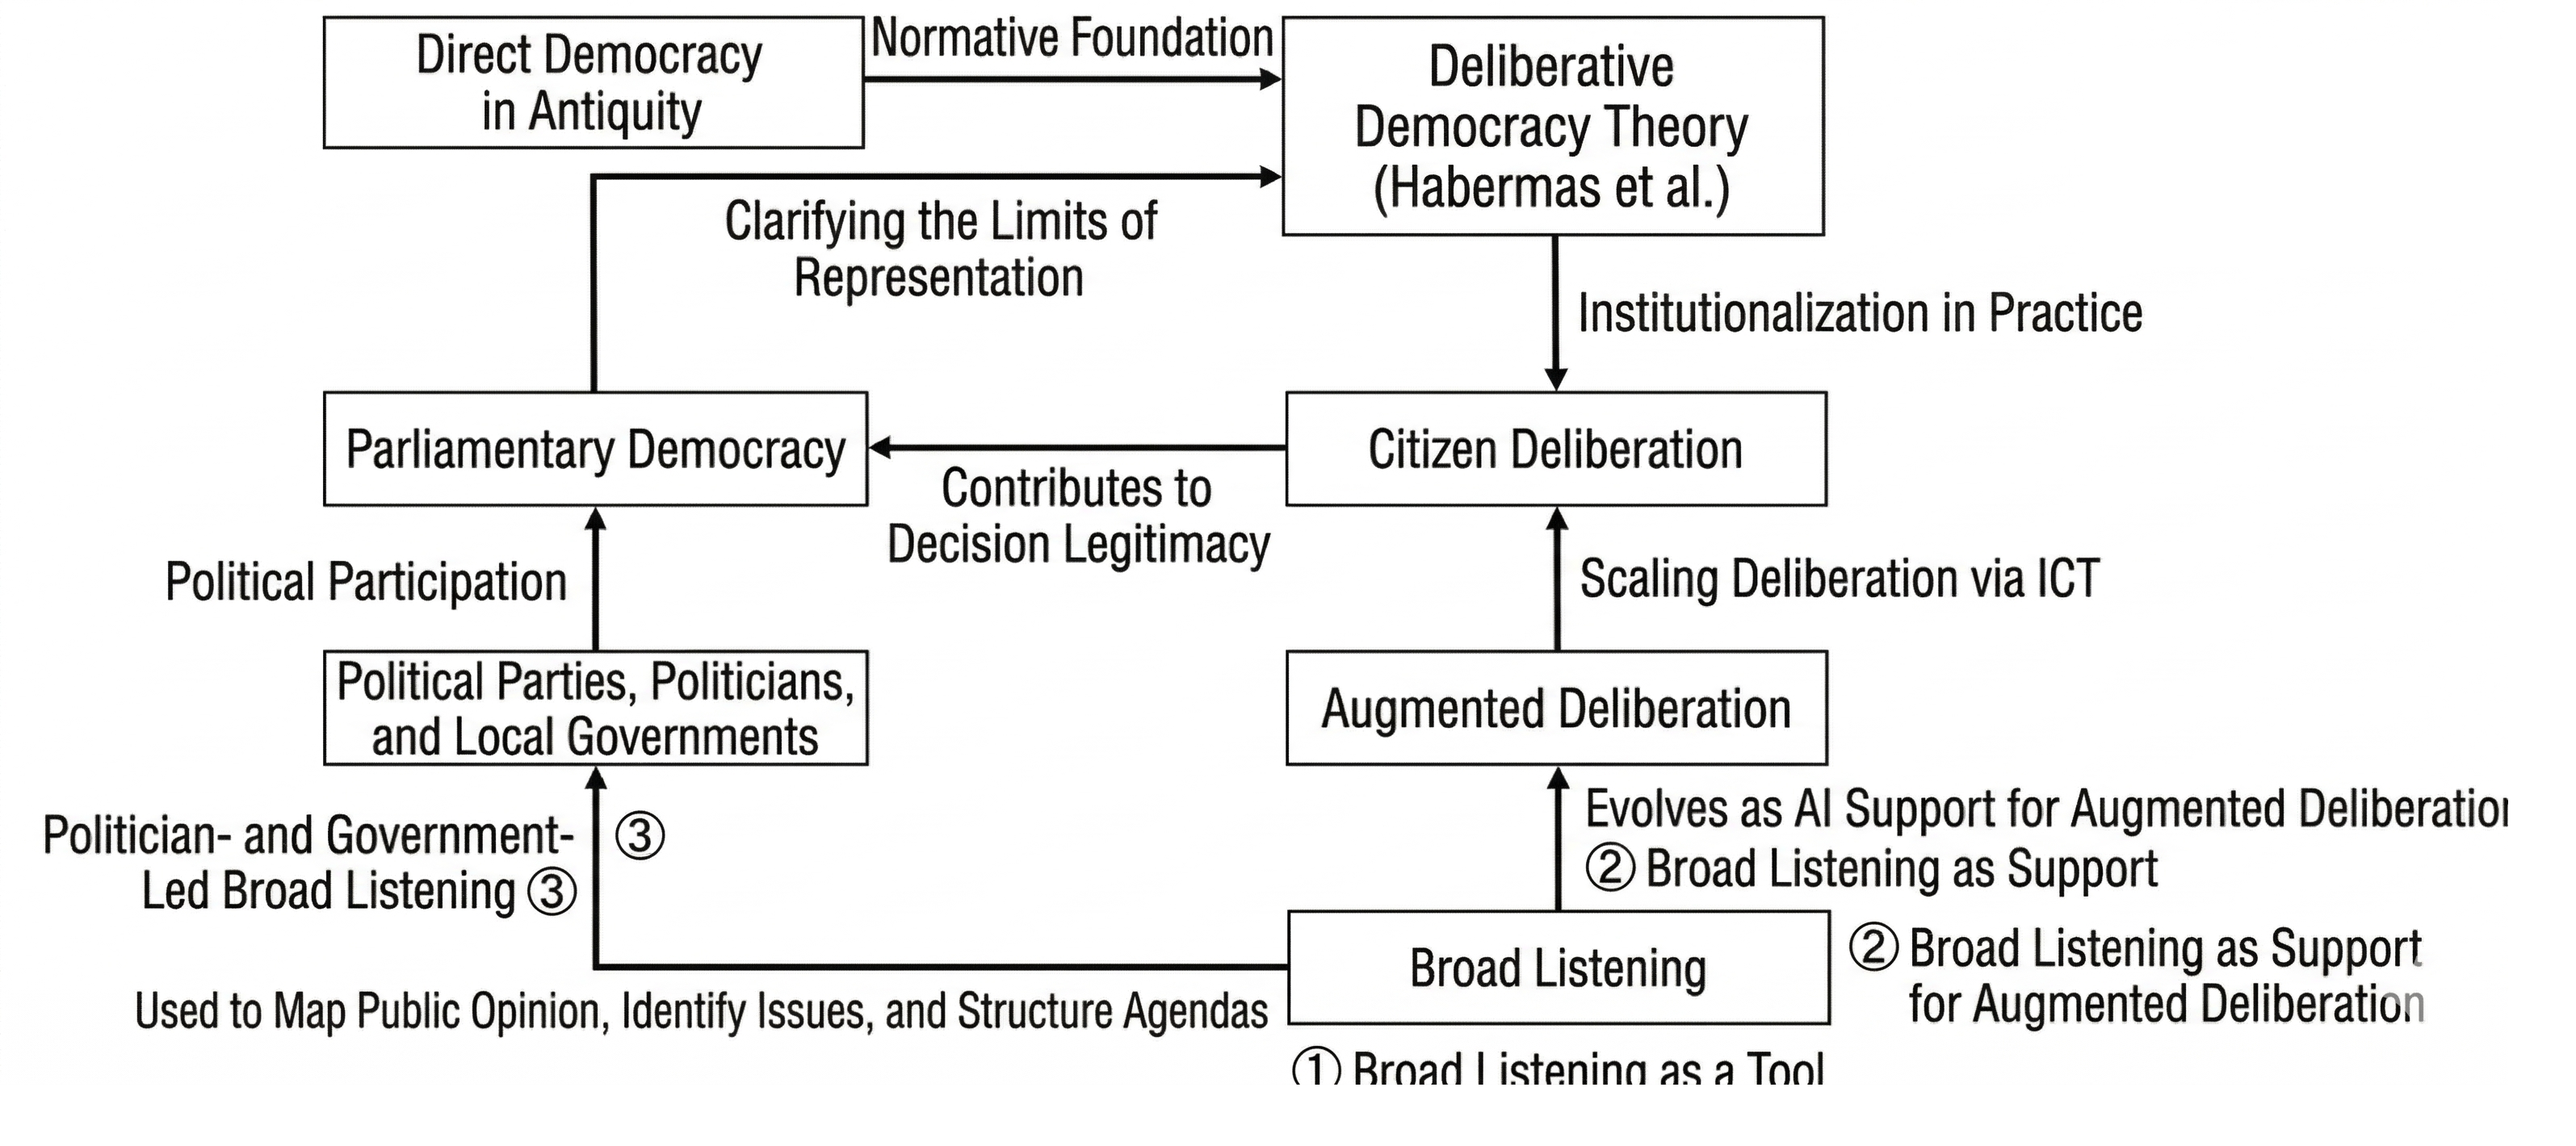
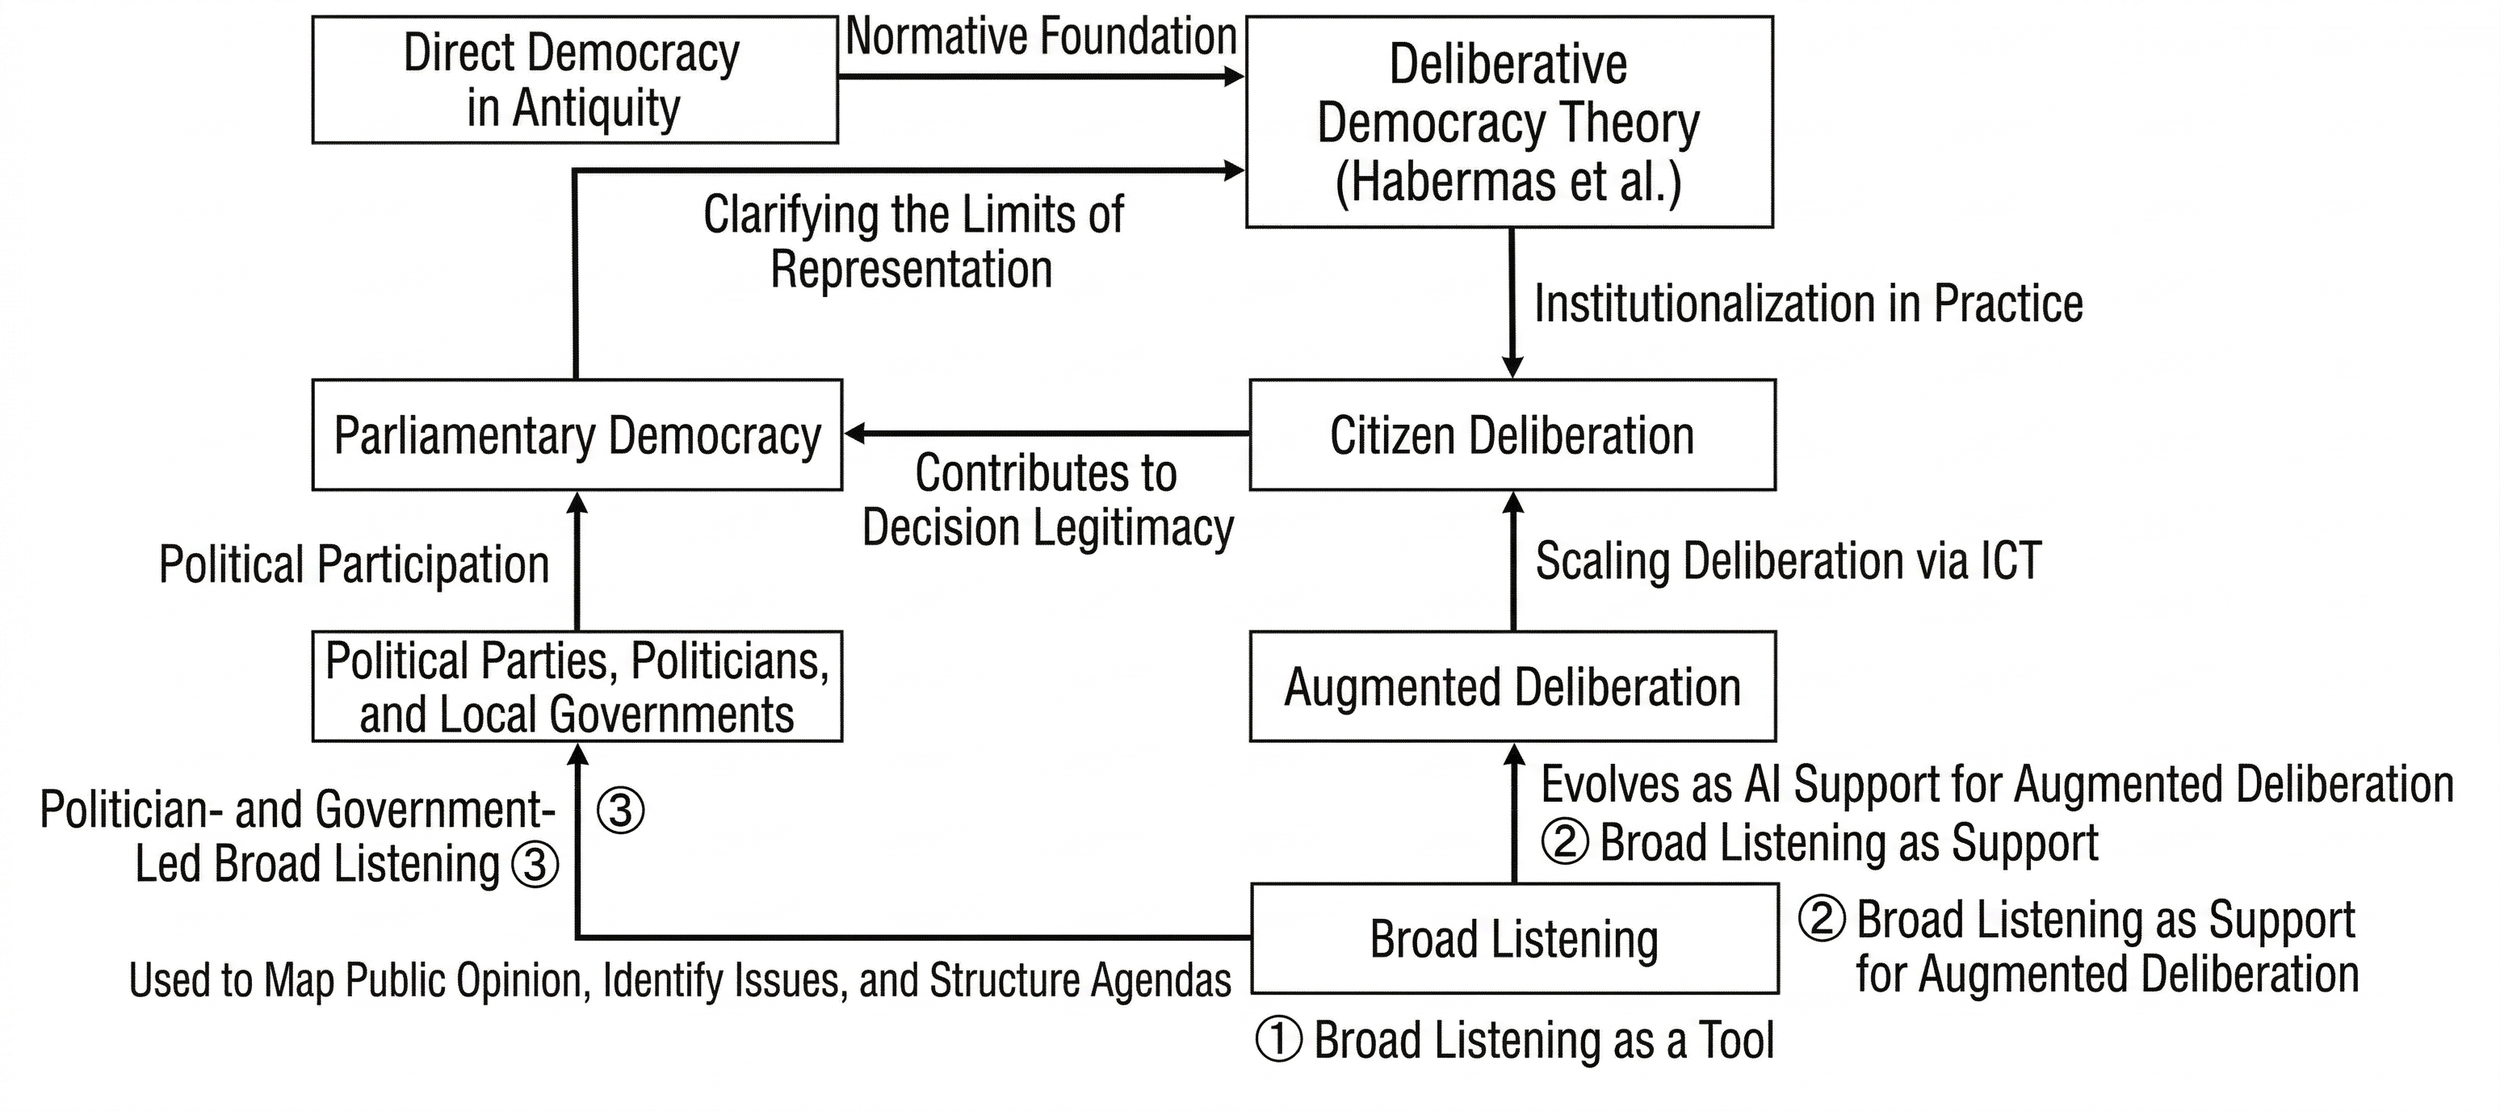
Clarify Japan-specific framing in Chapter 1
Narrow the Chapter 1 sentence about election coverage to Japan, and replace the deliberative-democracy genealogy figure with the newer English version.

diff --git a/en/01_what_is_broad_listening.md b/en/01_what_is_broad_listening.md
@@ -6,7 +6,7 @@ English translation by Luke Closs
 
 ## Purpose of This Book
 
-Since the 2024 Tokyo gubernatorial election, diagrams like this one have become increasingly common in election coverage and political reporting.
+Since the 2024 Tokyo gubernatorial election, diagrams like this one have become increasingly common in election coverage and political reporting in Japan.
 
 ![Example of an opinion scatterplot generated by Broad Listening AI](images/01_kochoai_scatter_example.png)
 
